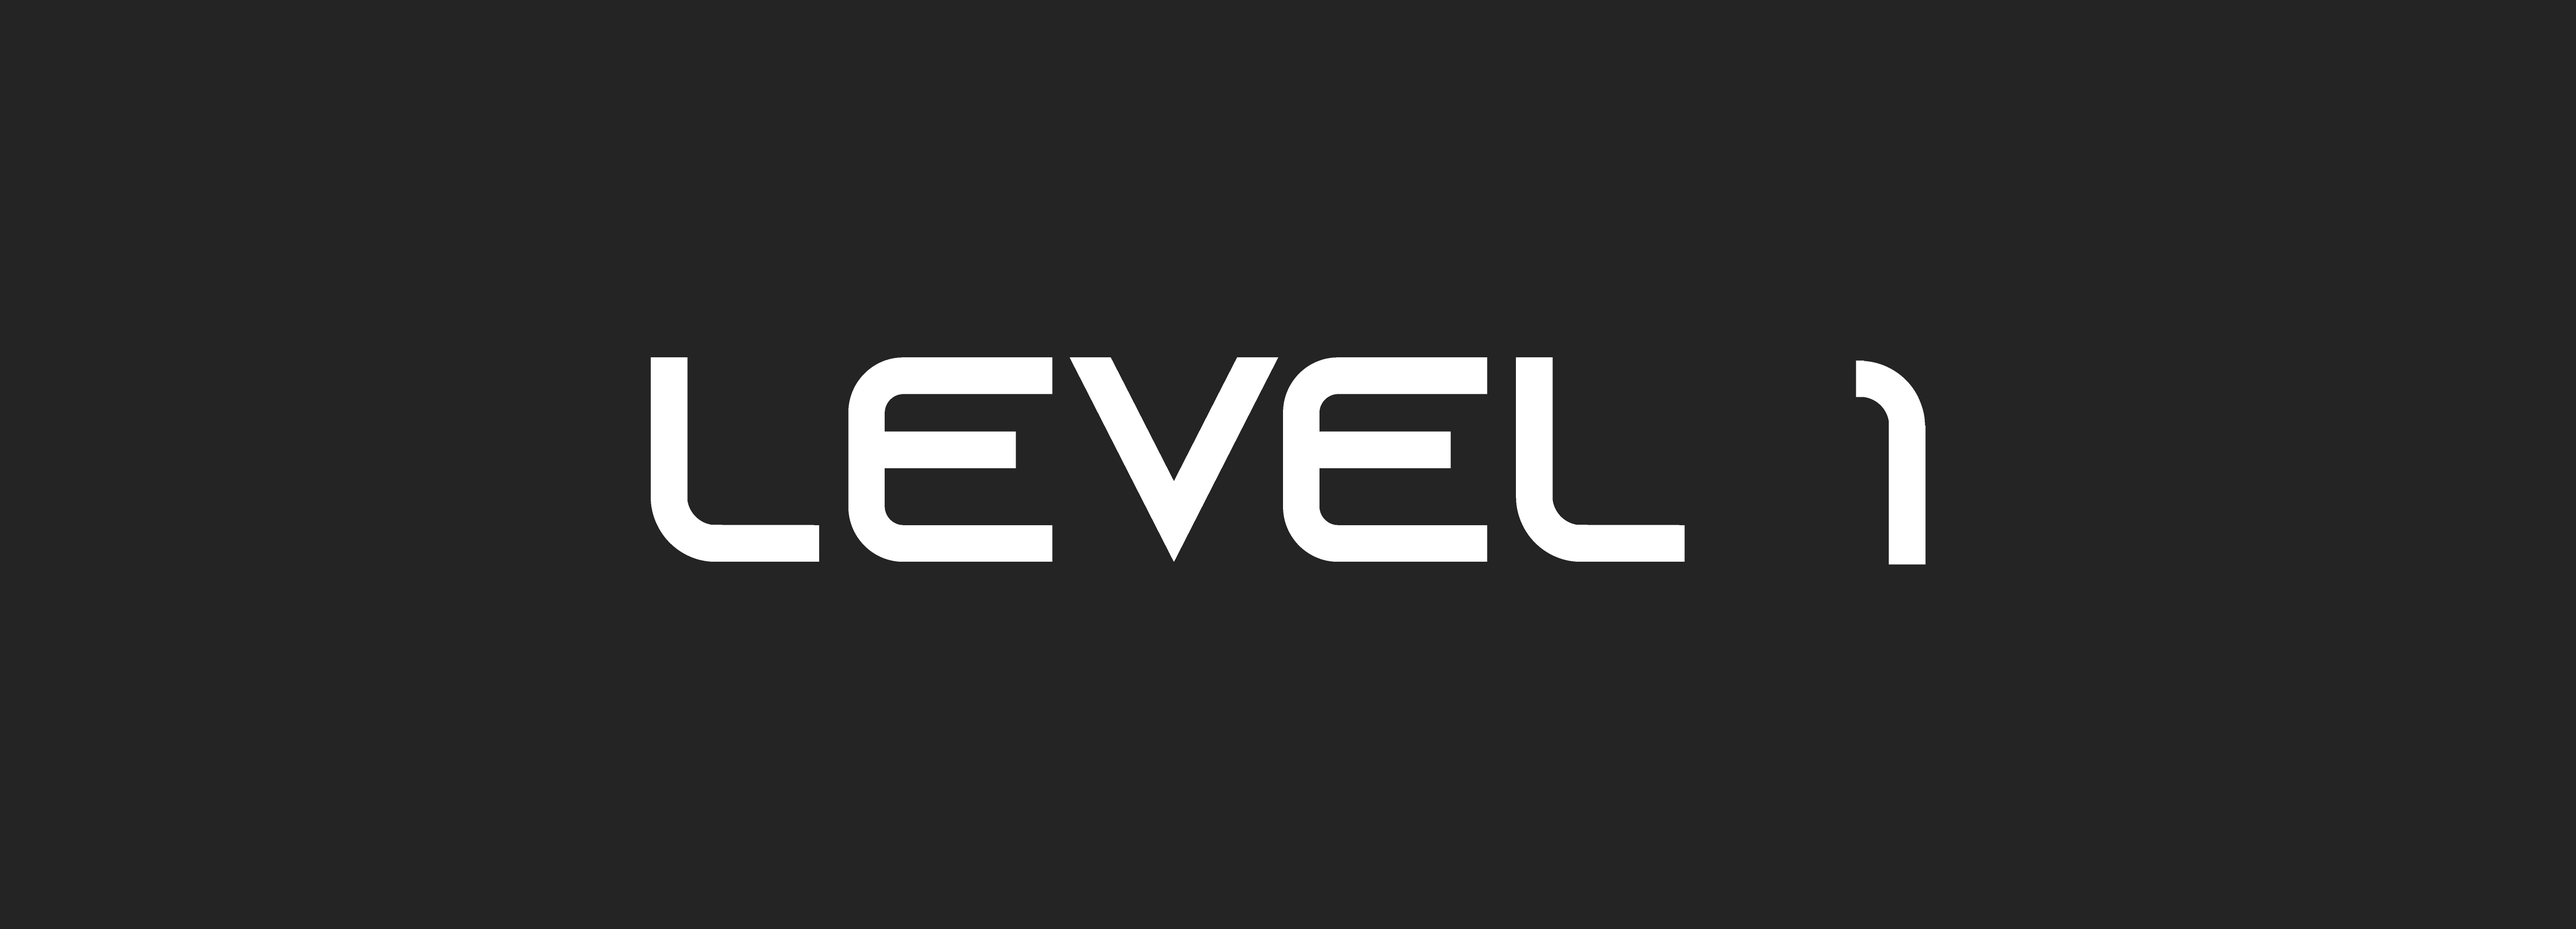
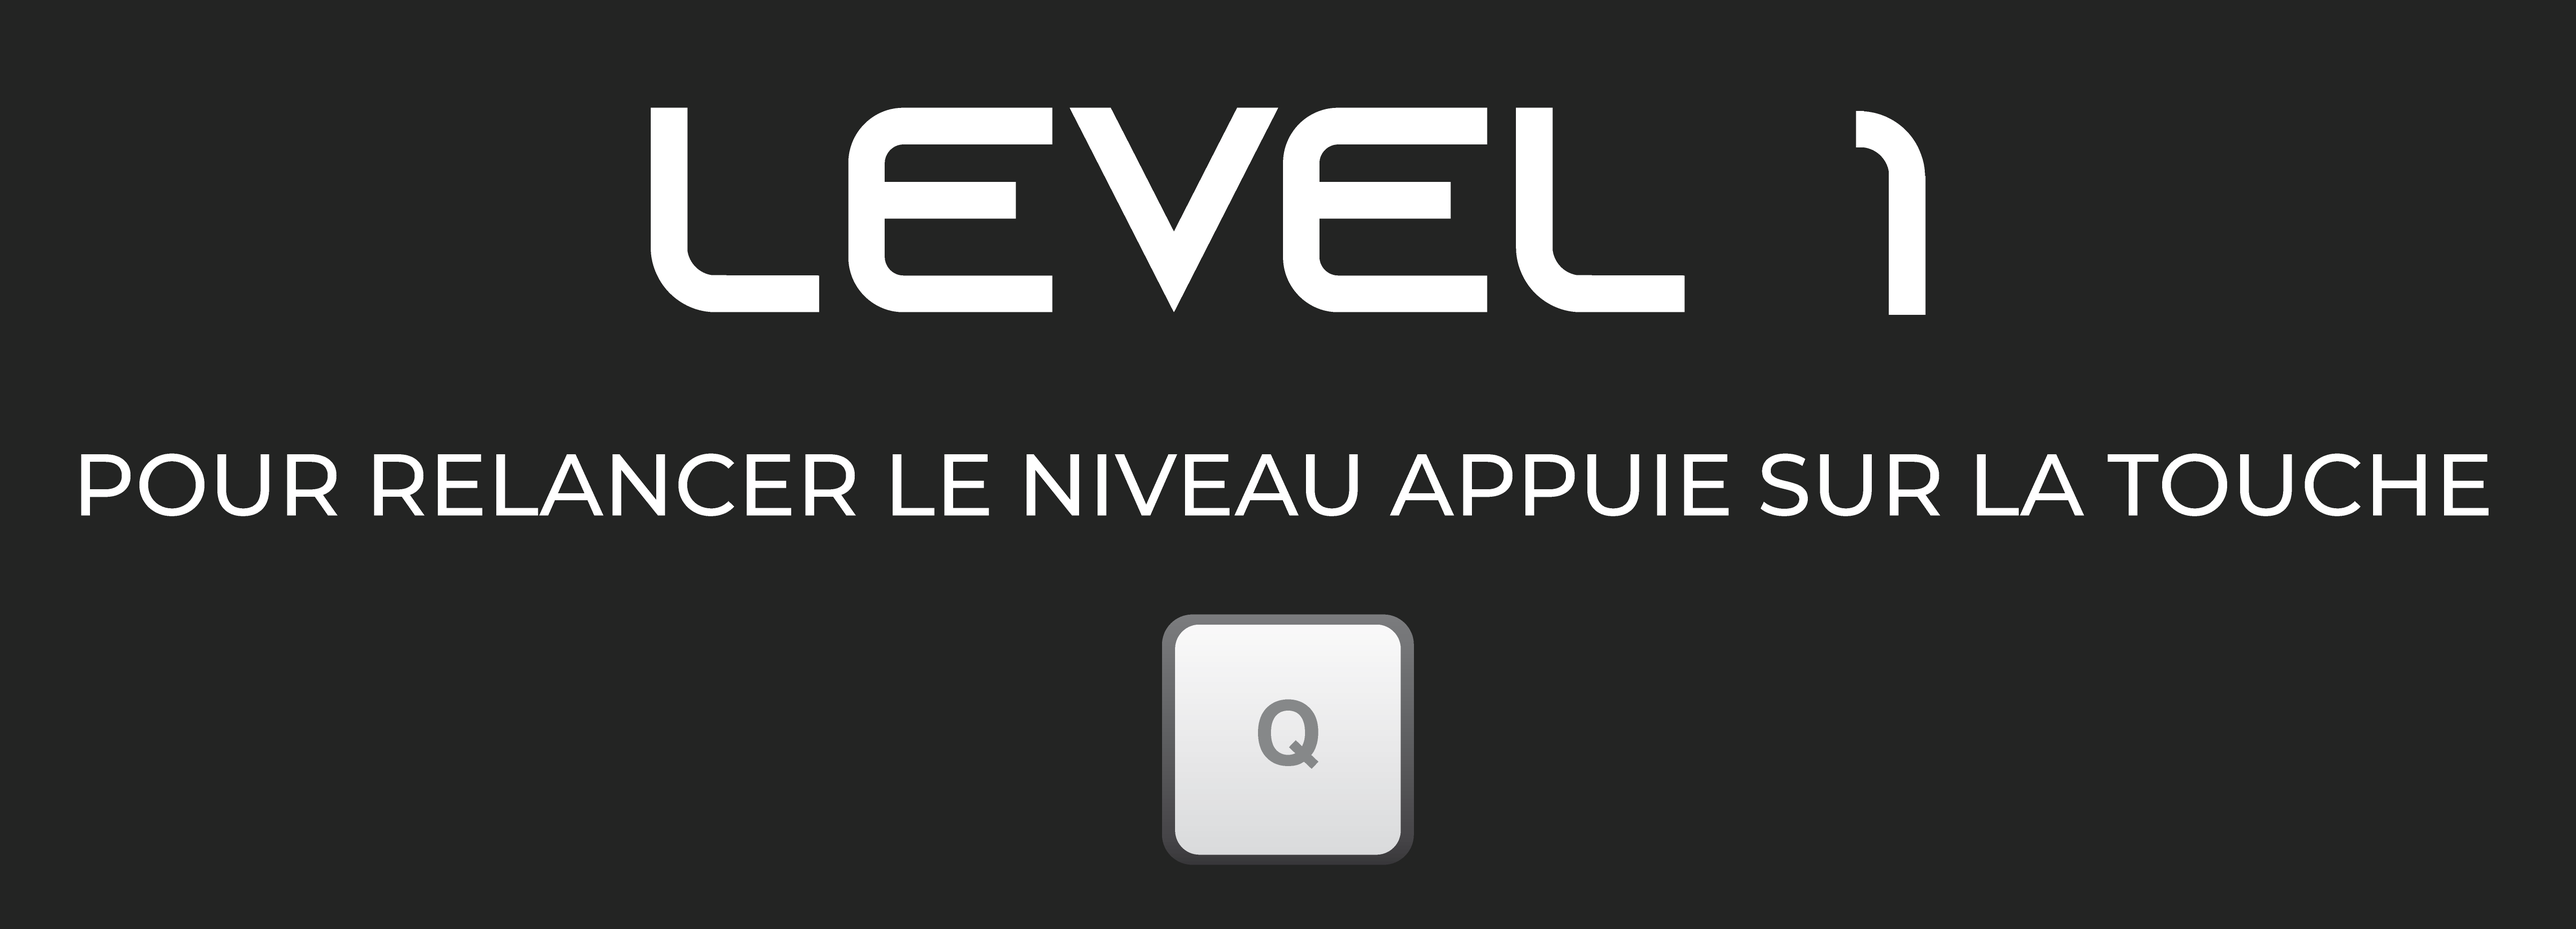
Change level image

diff --git a/src/Formes.cpp b/src/Formes.cpp
@@ -41,21 +41,25 @@ void Rectangle::collision(Rectangle* other){
     }
 
     if(
-        this->position.y - this->halfHeight < other->position.y + other->halfHeight && this->oldPosition.y - this->halfHeight >= other->oldPosition.y + other->halfHeight
+        this->position.y - this->halfHeight < other->position.y + other->halfHeight 
+        && this->oldPosition.y - this->halfHeight >= other->oldPosition.y + other->halfHeight
     ){
         this->isJumping = false;
 
         this->position.y = other->position.y + other->halfHeight + this->halfHeight;
     } else if(
-        this->position.y + this->halfHeight > other->position.y - other->halfHeight && this->oldPosition.y + this->halfHeight <= other->oldPosition.y - other->halfHeight
+        this->position.y + this->halfHeight > other->position.y - other->halfHeight 
+        && this->oldPosition.y + this->halfHeight <= other->oldPosition.y - other->halfHeight
     ) {
         this->position.y = other->position.y - other->halfHeight - this->halfHeight;
     }else if(
-        this->position.x - this->halfWidth < other->position.x + other->halfWidth && this->oldPosition.x - this->halfWidth >= other->oldPosition.x + other->halfWidth
+        this->position.x - this->halfWidth < other->position.x + other->halfWidth 
+        && this->oldPosition.x - this->halfWidth >= other->oldPosition.x + other->halfWidth
     ) {
         this->position.x = other->position.x + other->halfWidth + this->halfWidth;
     }else if(
-        this->position.x + this->halfWidth > other->position.x - other->halfWidth && this->oldPosition.x + this->halfWidth <= other->oldPosition.x - other->halfWidth 
+        this->position.x + this->halfWidth > other->position.x - other->halfWidth 
+        && this->oldPosition.x + this->halfWidth <= other->oldPosition.x - other->halfWidth 
     ) {
         this->position.x = other->position.x - other->halfWidth - this->halfWidth;
     }

diff --git a/src/Homepage.cpp b/src/Homepage.cpp
@@ -51,7 +51,6 @@ State displayHomepage(GLuint* texture, glm::vec2 cursorPosition, bool mousePress
                 glPopMatrix();  
                 
                 //Bouton start
-
                 if(
                         //hover
                         cursorPosition.x>= (520.f/1280.f) * width //520
@@ -68,12 +67,10 @@ State displayHomepage(GLuint* texture, glm::vec2 cursorPosition, bool mousePress
                                 drawSquare();    
                         glPopMatrix();
                 
-
                         if(mousePressed){
                                 return State::Game;
                         }
-                }
-                else{
+                } else {
                         glBindTexture(GL_TEXTURE_2D, texture[1]); //application de ma texture start apres hover 
 
                         glPushMatrix();

diff --git a/src/App.cpp b/src/App.cpp
@@ -162,7 +162,7 @@ void App::Render() {
                     glBlendFunc(GL_SRC_ALPHA,GL_ONE_MINUS_SRC_ALPHA);  // gere la transparence
                     glBindTexture(GL_TEXTURE_2D, _textureId[19 + currentLevel]); //application de ma texture de current Level
                         glTranslatef(0, 0.5f, 0);
-                        glScalef(2, 1, 0);
+                        glScalef(1, 0.5, 0);
                         drawSquare();
                     glBindTexture(GL_TEXTURE_2D, 0);
                     glDisable(GL_TEXTURE_2D);
